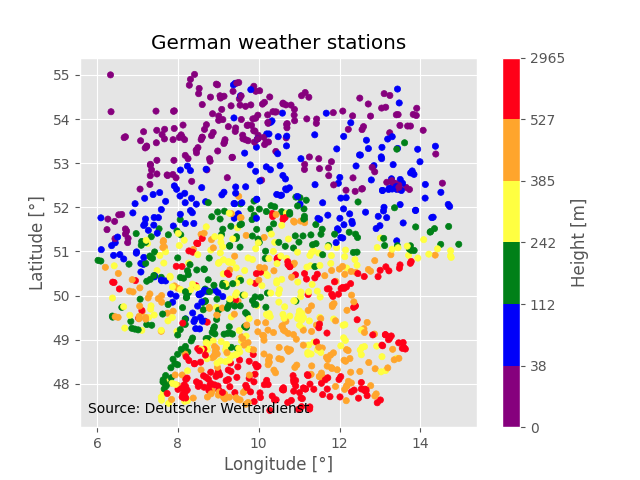
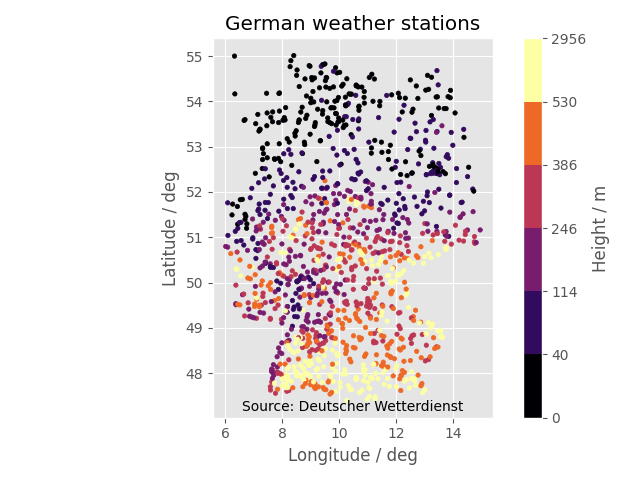
Update German Weather Stations plot in README
* Use a color-blind friendly colormap
* Scale axis to get proper shape for Germany

diff --git a/docs/img/readme_img.py b/docs/img/readme_img.py
@@ -3,6 +3,7 @@
 # Copyright (c) 2018-2020 Andreas Motl <andreas.motl@panodata.org>
 # Copyright (c) 2018-2020 Benjamin Gutzmann <gutzemann@gmail.com>
 
+import numpy as np
 import matplotlib.pyplot as plt
 import polars as pl
 from matplotlib import colors
@@ -41,44 +42,33 @@ def create_temperature_ts_plot():
 
 
 def create_weather_stations_map():
-    """Create map of DWD weather stations_result in Germany"""
+    """Create map of DWD weather stations in Germany"""
     stations = DwdObservationRequest("climate_summary", "daily", "historical")
     stations_df = stations.all().df
     fig, ax = plt.subplots()
-    # Rainbow colormap
-    cmap = colors.LinearSegmentedColormap.from_list(
-        "",
-        [
-            "#86007D",
-            "#0000F9",
-            "#008018",
-            "#FFFF41",
-            "#FFA52C",
-            "#FF0018",
-        ],
-    )
-    bounds = (
-        stations_df.select(pl.col("height"))
-        .to_series()
-        .quantile([0, 0.16666667, 0.33333333, 0.5, 0.66666667, 0.83333333, 1])
-        .values
-    )
 
+    quantiles = [0.0, 0.16666667, 0.33333333, 0.5, 0.66666667, 0.83333333, 1.0]
+    bounds = [
+        stations_df["height"].quantile(q)
+        for q in quantiles
+    ]
+    inferno = plt.get_cmap("inferno")
+    cmap = ListedColormap([inferno(q) for q in quantiles])
     norm = colors.BoundaryNorm(bounds, cmap.N)
+    plot = ax.scatter(data=stations_df, x="longitude", y="latitude", c="height", s=10, cmap=cmap, norm=norm)
+    fig.colorbar(plot, ax=ax, label="Height / m")
 
-    stations_df = stations_df.rename(columns={"height": "Height [m]"})
+    ax.set_xlabel("Longitude / deg")
+    ax.set_ylabel("Latitude / deg")
+    ax.set_title("German weather stations")
+    # make Germany look like Germany by using the proper scaling between y-axis and x-axis
+    # 51 is approximately the mean latitude of Germany
+    ax.set_aspect(1 / np.cos(np.deg2rad(51)))
 
-    stations_df.plot.scatter(x="longitude", y="latitude", c="Height [m]", cmap=cmap, norm=norm, ax=ax)
+    ax.text(0.5, 0.01, "Source: Deutscher Wetterdienst", ha="center", va="bottom", transform=ax.transAxes)
 
-    ax.set_xlabel("Longitude [°]")
-    ax.set_ylabel("Latitude [°]")
-    ax.set_title("German weather stations_result")
-
-    ax.text(0.3, 0.05, "Source: Deutscher Wetterdienst", ha="center", va="center", transform=ax.transAxes)
-
-    plt.savefig("german_weather_stations.png")
-
-    return
+    fig.tight_layout()
+    fig.savefig("german_weather_stations.png")
 
 
 def create_hohenpeissenberg_warming_stripes():
